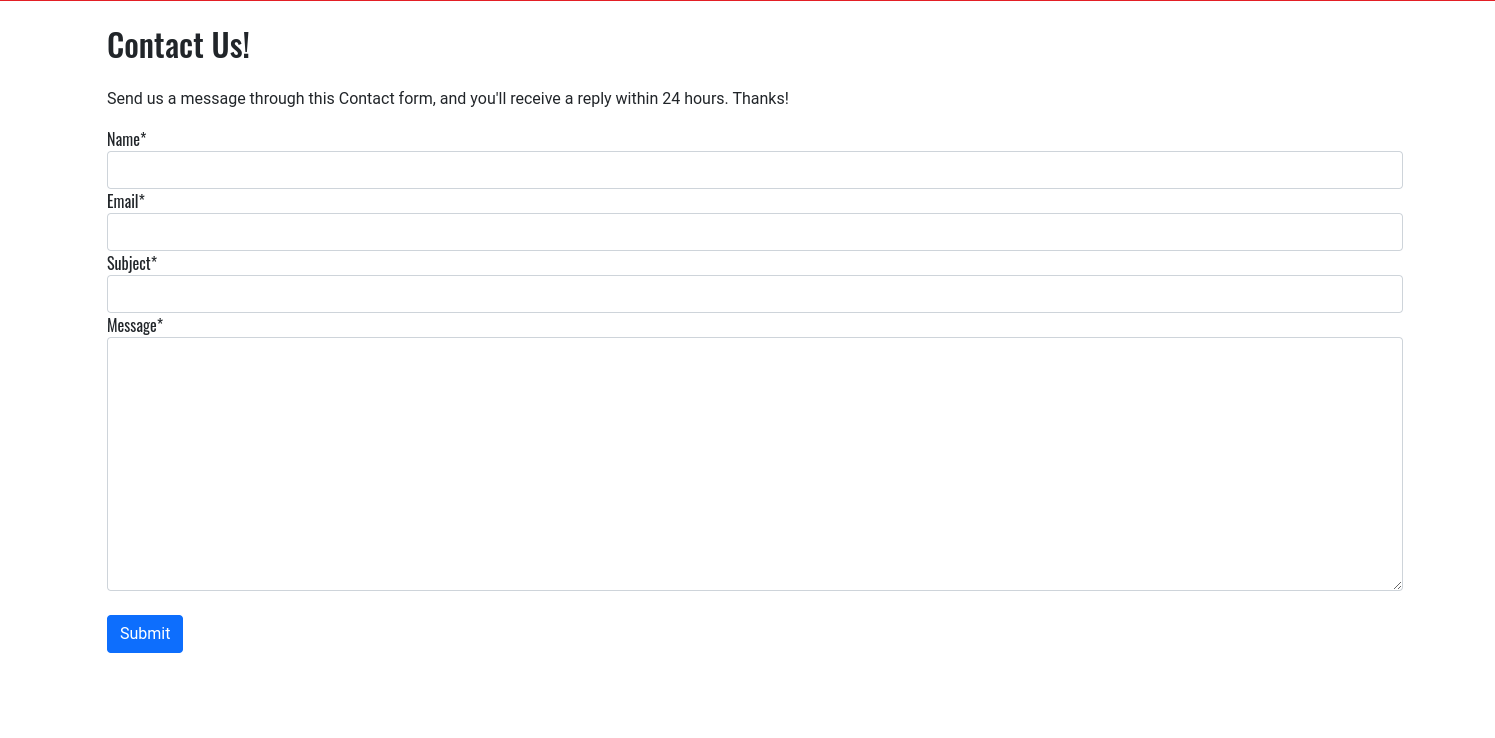
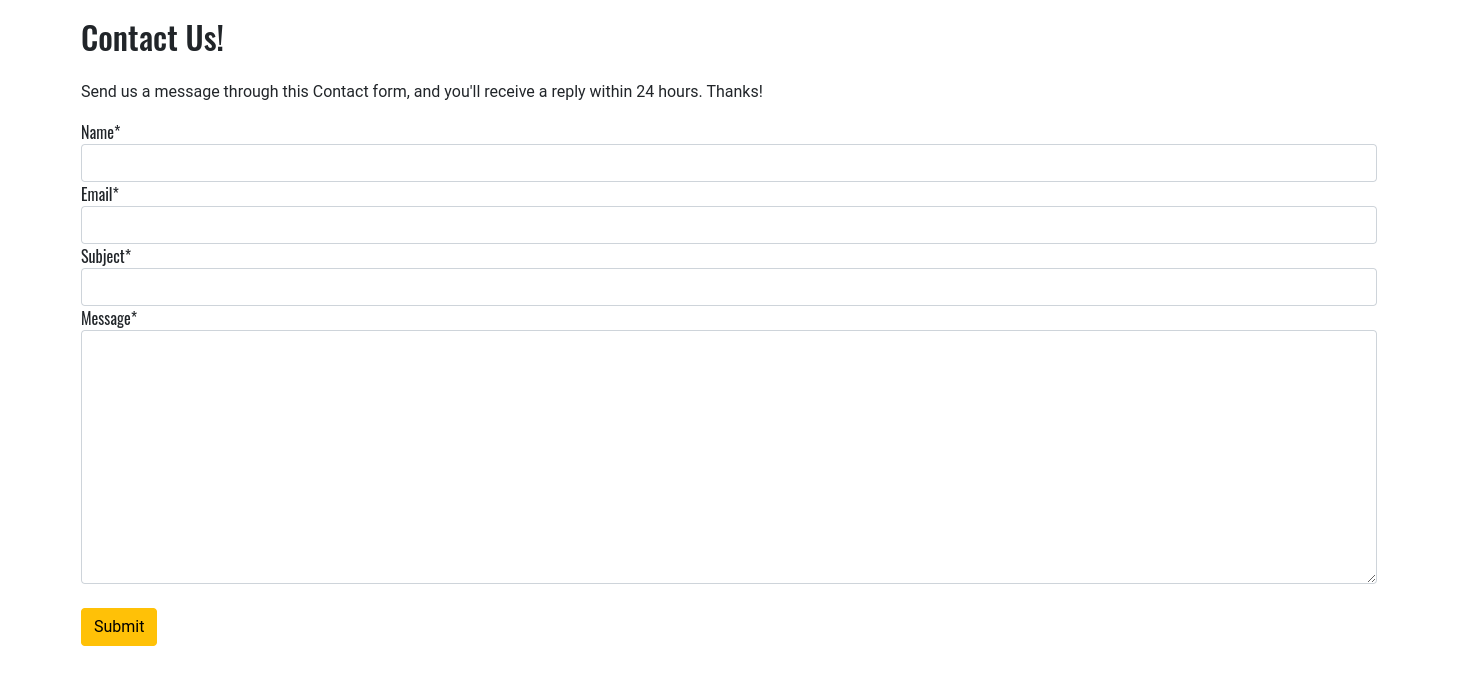
Add page titles to templates, meta tags to base template

diff --git a/templates/base.html b/templates/base.html
@@ -8,13 +8,14 @@
     <meta charset="UTF-8">
     <meta http-equiv="X-UA-Compatible" content="IE=edge">
     <meta name="viewport" content="width=device-width, initial-scale=1.0">
-    <meta name="description" content="JB's Record Store">
+    <meta name="description" content="JB's Record Store - a record store selling music on physical formats.">
+    <meta name="keywords"
+        content="JB's Record Store, music store, music shop, vinyl, cassette, compact disc, music, physical">
+    <meta name="author" content="Jonathan Burrell">
     {% endblock %}
 
     {% block extra_meta %}
     {% endblock %}
-
-    <title>{% block extra_title %} JB's Record Store {% endblock %}</title>
 
     {% block corecss %}
     <link href="https://cdn.jsdelivr.net/npm/bootstrap@5.0.2/dist/css/bootstrap.min.css" rel="stylesheet"
@@ -43,6 +44,7 @@
 
     {% block extra_js %}
     {% endblock %}
+    <title>{% block extra_title %} JB's Record Store {% endblock %}</title>
 </head>
 
 

diff --git a/contact/templates/contact/contact.html b/contact/templates/contact/contact.html
@@ -2,6 +2,8 @@
 {% load static %}
 {% load crispy_forms_tags %}
 
+{% block extra_title %}JB's Record Store | Contact{% endblock %}
+
 {% block content %}
 
 <div class="container">
@@ -12,7 +14,7 @@
     <form method="post" enctype="multipart/form-data">
         {% csrf_token %}
         {{contact_form|crispy}}
-        <button class="btn btn-primary my-4" type="submit">Submit</button>
+        <button class="btn btn-warning my-4" type="submit">Submit</button>
     </form>
 
 </div>

diff --git a/reviews/templates/reviews/update_review.html b/reviews/templates/reviews/update_review.html
@@ -1,5 +1,9 @@
 {% extends "base.html" %}
 {% load static %}
+{% load crispy_forms_tags %}
+
+{% block extra_title %}JB's Record Store | Update Review{% endblock %}
+
 {% block content %}
 <div id="add_review" class="edit-comments">
     <div class="container">

diff --git a/checkout/templates/checkout/checkout_success.html b/checkout/templates/checkout/checkout_success.html
@@ -1,6 +1,8 @@
 {% extends "base.html" %}
 {% load static %}
 
+{% block extra_title %}JB's Record Store | Checkout Success{% endblock %}
+
 {% block extra_css %}
 <link rel="stylesheet" href="{% static 'checkout/css/checkout.css' %}">
 {% endblock %}

diff --git a/reviews/templates/reviews/add_review.html b/reviews/templates/reviews/add_review.html
@@ -2,6 +2,8 @@
 {% load static %}
 {% load crispy_forms_tags %}
 
+{% block extra_title %}JB's Record Store | Add Review{% endblock %}
+
 {% block extra_css %}
 <link rel="stylesheet" href="{% static 'reviews/css/review.css' %}">
 {% endblock %}

diff --git a/profiles/templates/profiles/profile.html b/profiles/templates/profiles/profile.html
@@ -2,6 +2,8 @@
 {% load static %}
 {% load crispy_forms_tags %}
 
+{% block extra_title %}JB's Record Store | Profile{% endblock %}
+
 {% block extra_css %}
 <link rel="stylesheet" href="{% static 'profiles/css/profile.css' %}">
 {% endblock %}

diff --git a/checkout/templates/checkout/checkout.html b/checkout/templates/checkout/checkout.html
@@ -1,6 +1,8 @@
 {% extends 'base.html' %}
 {% load static %}
 
+{% block extra_title %}JB's Record Store | Checkout{% endblock %}
+
 {% block extra_css %}
 <link rel="stylesheet" href="{% static 'checkout/css/checkout.css' %}">
 {% endblock %}

diff --git a/products/templates/products/products.html b/products/templates/products/products.html
@@ -1,8 +1,7 @@
 {% extends "base.html" %}
 {% load static %}
 
-{% block page_header %}
-{% endblock %}
+{% block extra_title %}JB's Record Store | Products{% endblock %}
 
 {% block content %}
 

diff --git a/contact/templates/contact/success.html b/contact/templates/contact/success.html
@@ -1,6 +1,7 @@
 {% extends "base.html" %}
 {% load static %}
-{% load crispy_forms_tags %}
+
+{% block extra_title %}JB's Record Store | Contact Success{% endblock %}
 
 {% block content %}
 

diff --git a/home/templates/home/privacy.html b/home/templates/home/privacy.html
@@ -1,6 +1,8 @@
 {% extends "base.html" %}
 {% load static %}
 
+{% block extra_title %}JB's Record Store | Privacy{% endblock %}
+
 {% block content %}
 
 <div class="container">

diff --git a/reviews/templates/reviews/reviews.html b/reviews/templates/reviews/reviews.html
@@ -1,6 +1,8 @@
 {% extends "base.html" %}
 {% load static %}
 
+{% block extra_title %}JB's Record Store | Reviews{% endblock %}
+
 {% block content %}
 
 <div class="container">

diff --git a/home/templates/home/terms.html b/home/templates/home/terms.html
@@ -1,6 +1,8 @@
 {% extends "base.html" %}
 {% load static %}
 
+{% block extra_title %}JB's Record Store | Terms{% endblock %}
+
 {% block content %}
 
 <div class="container">
